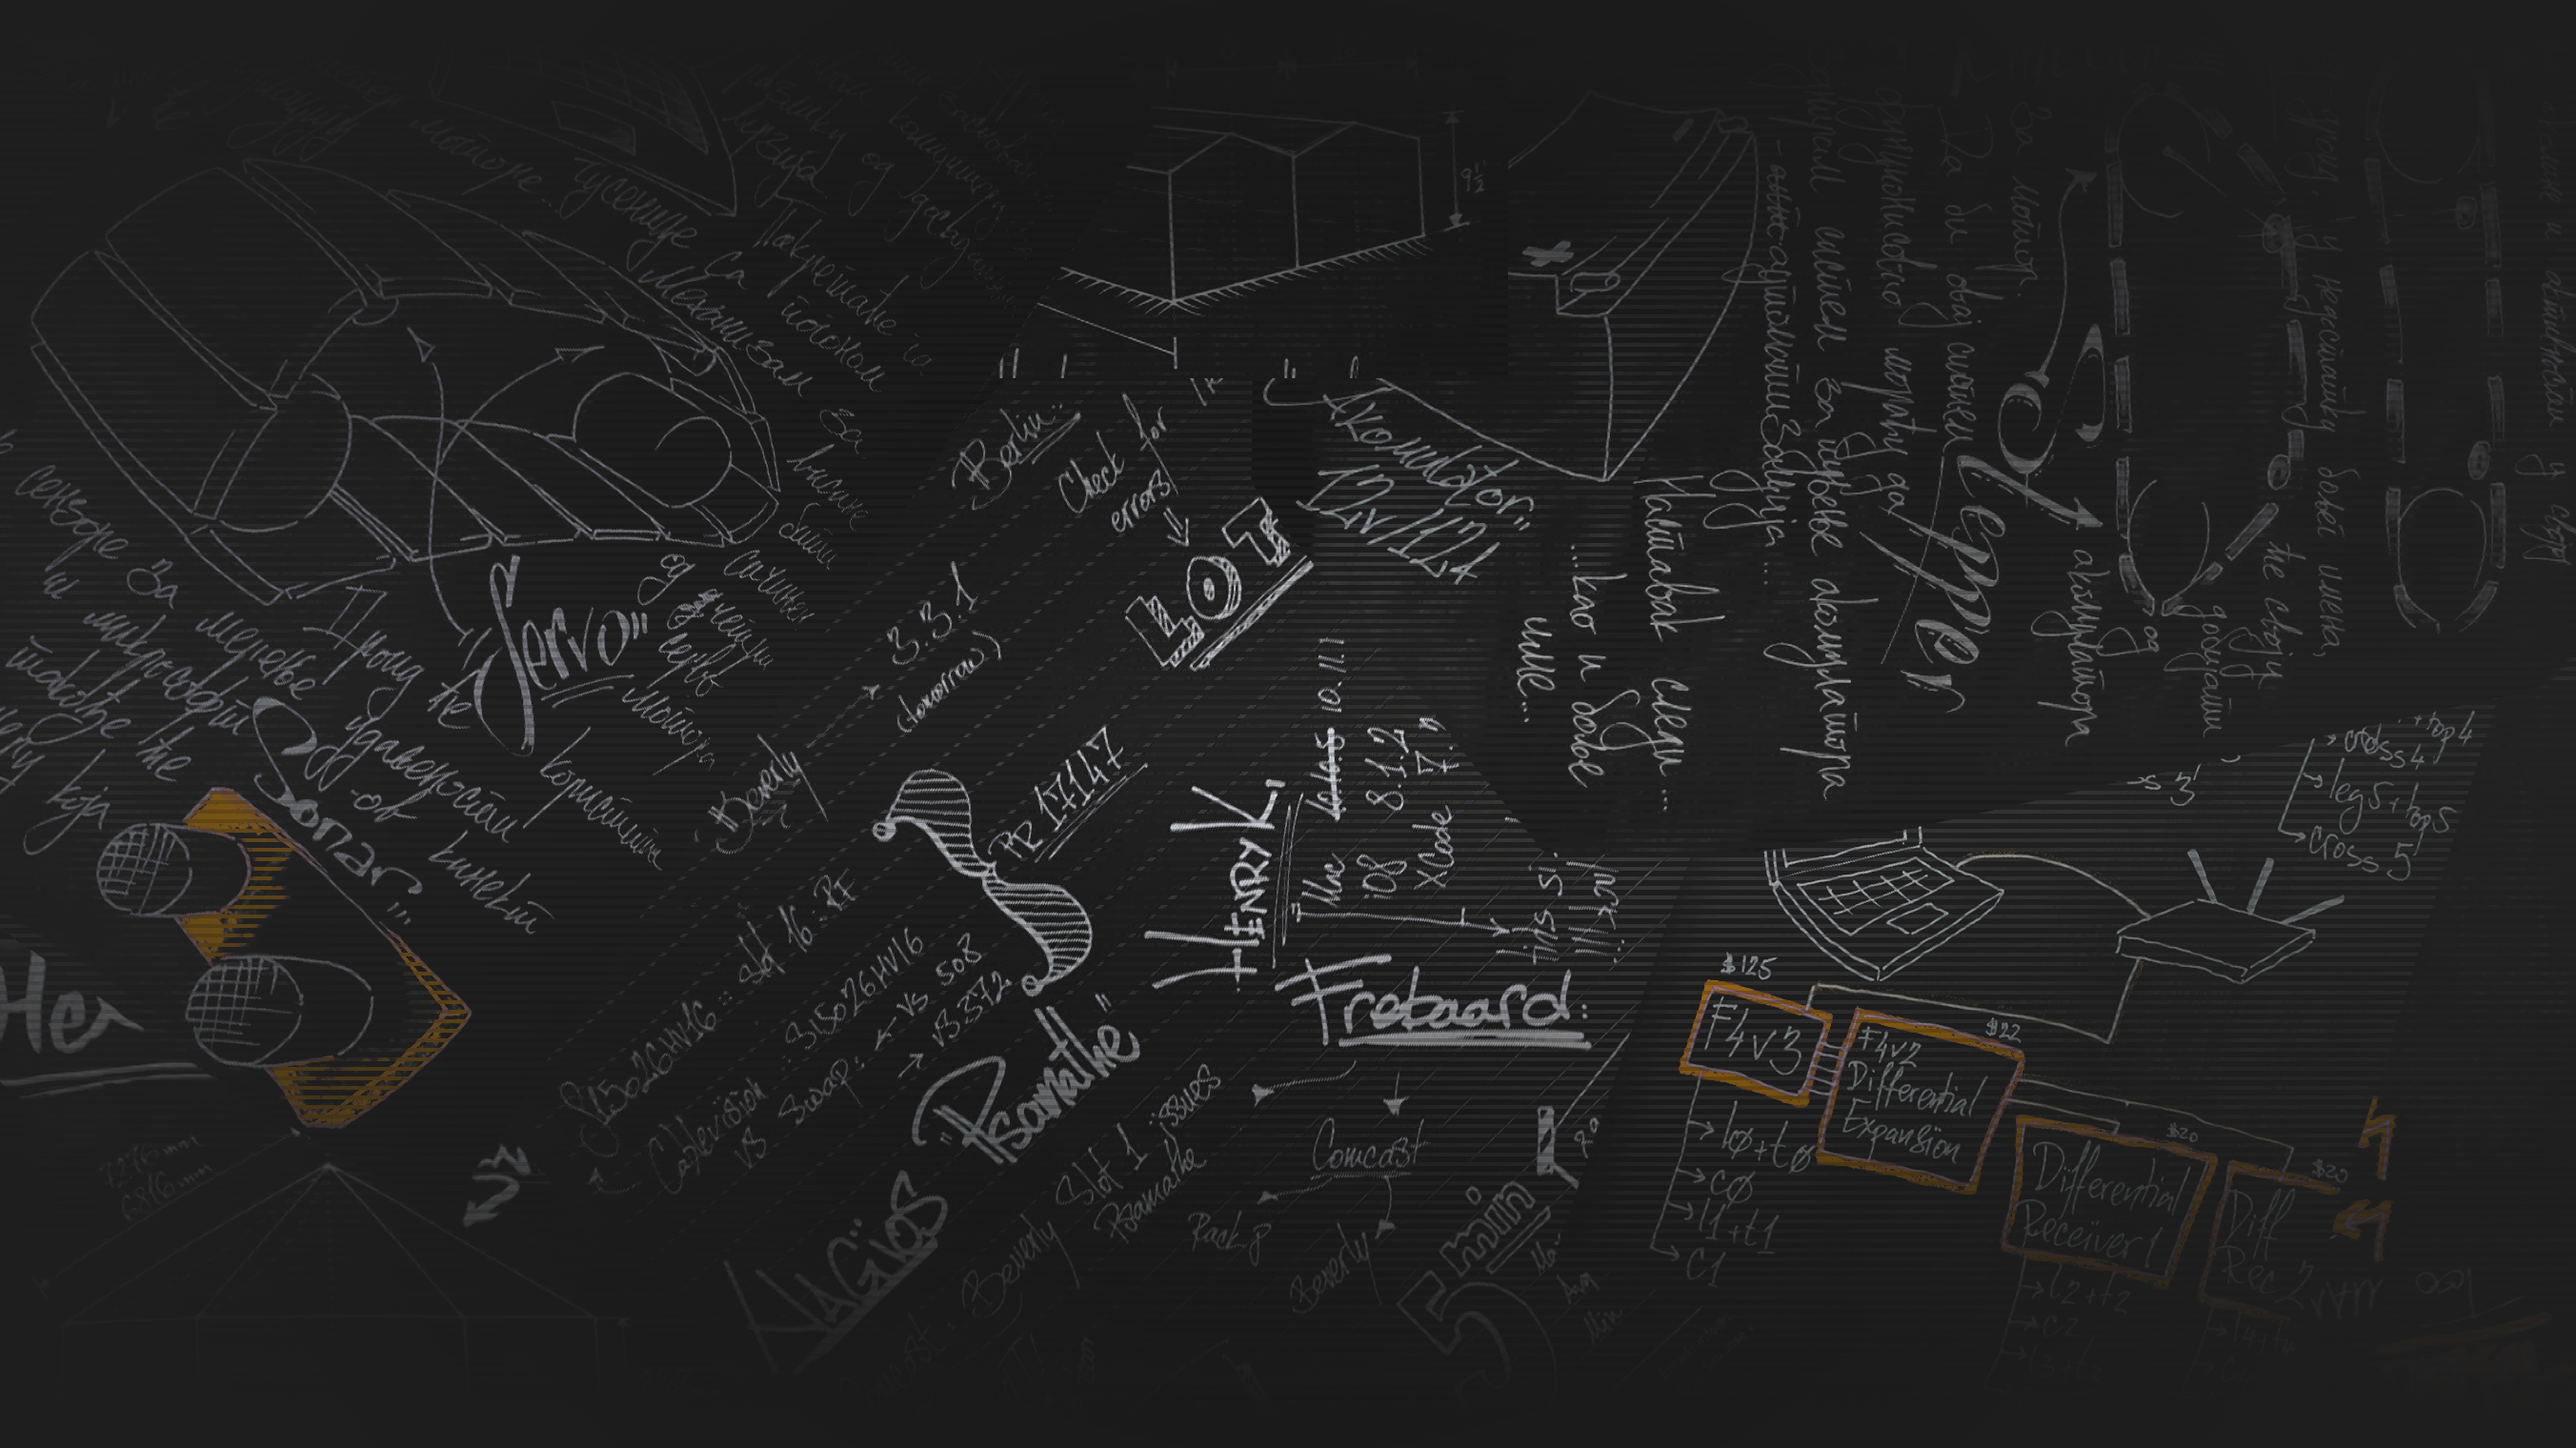
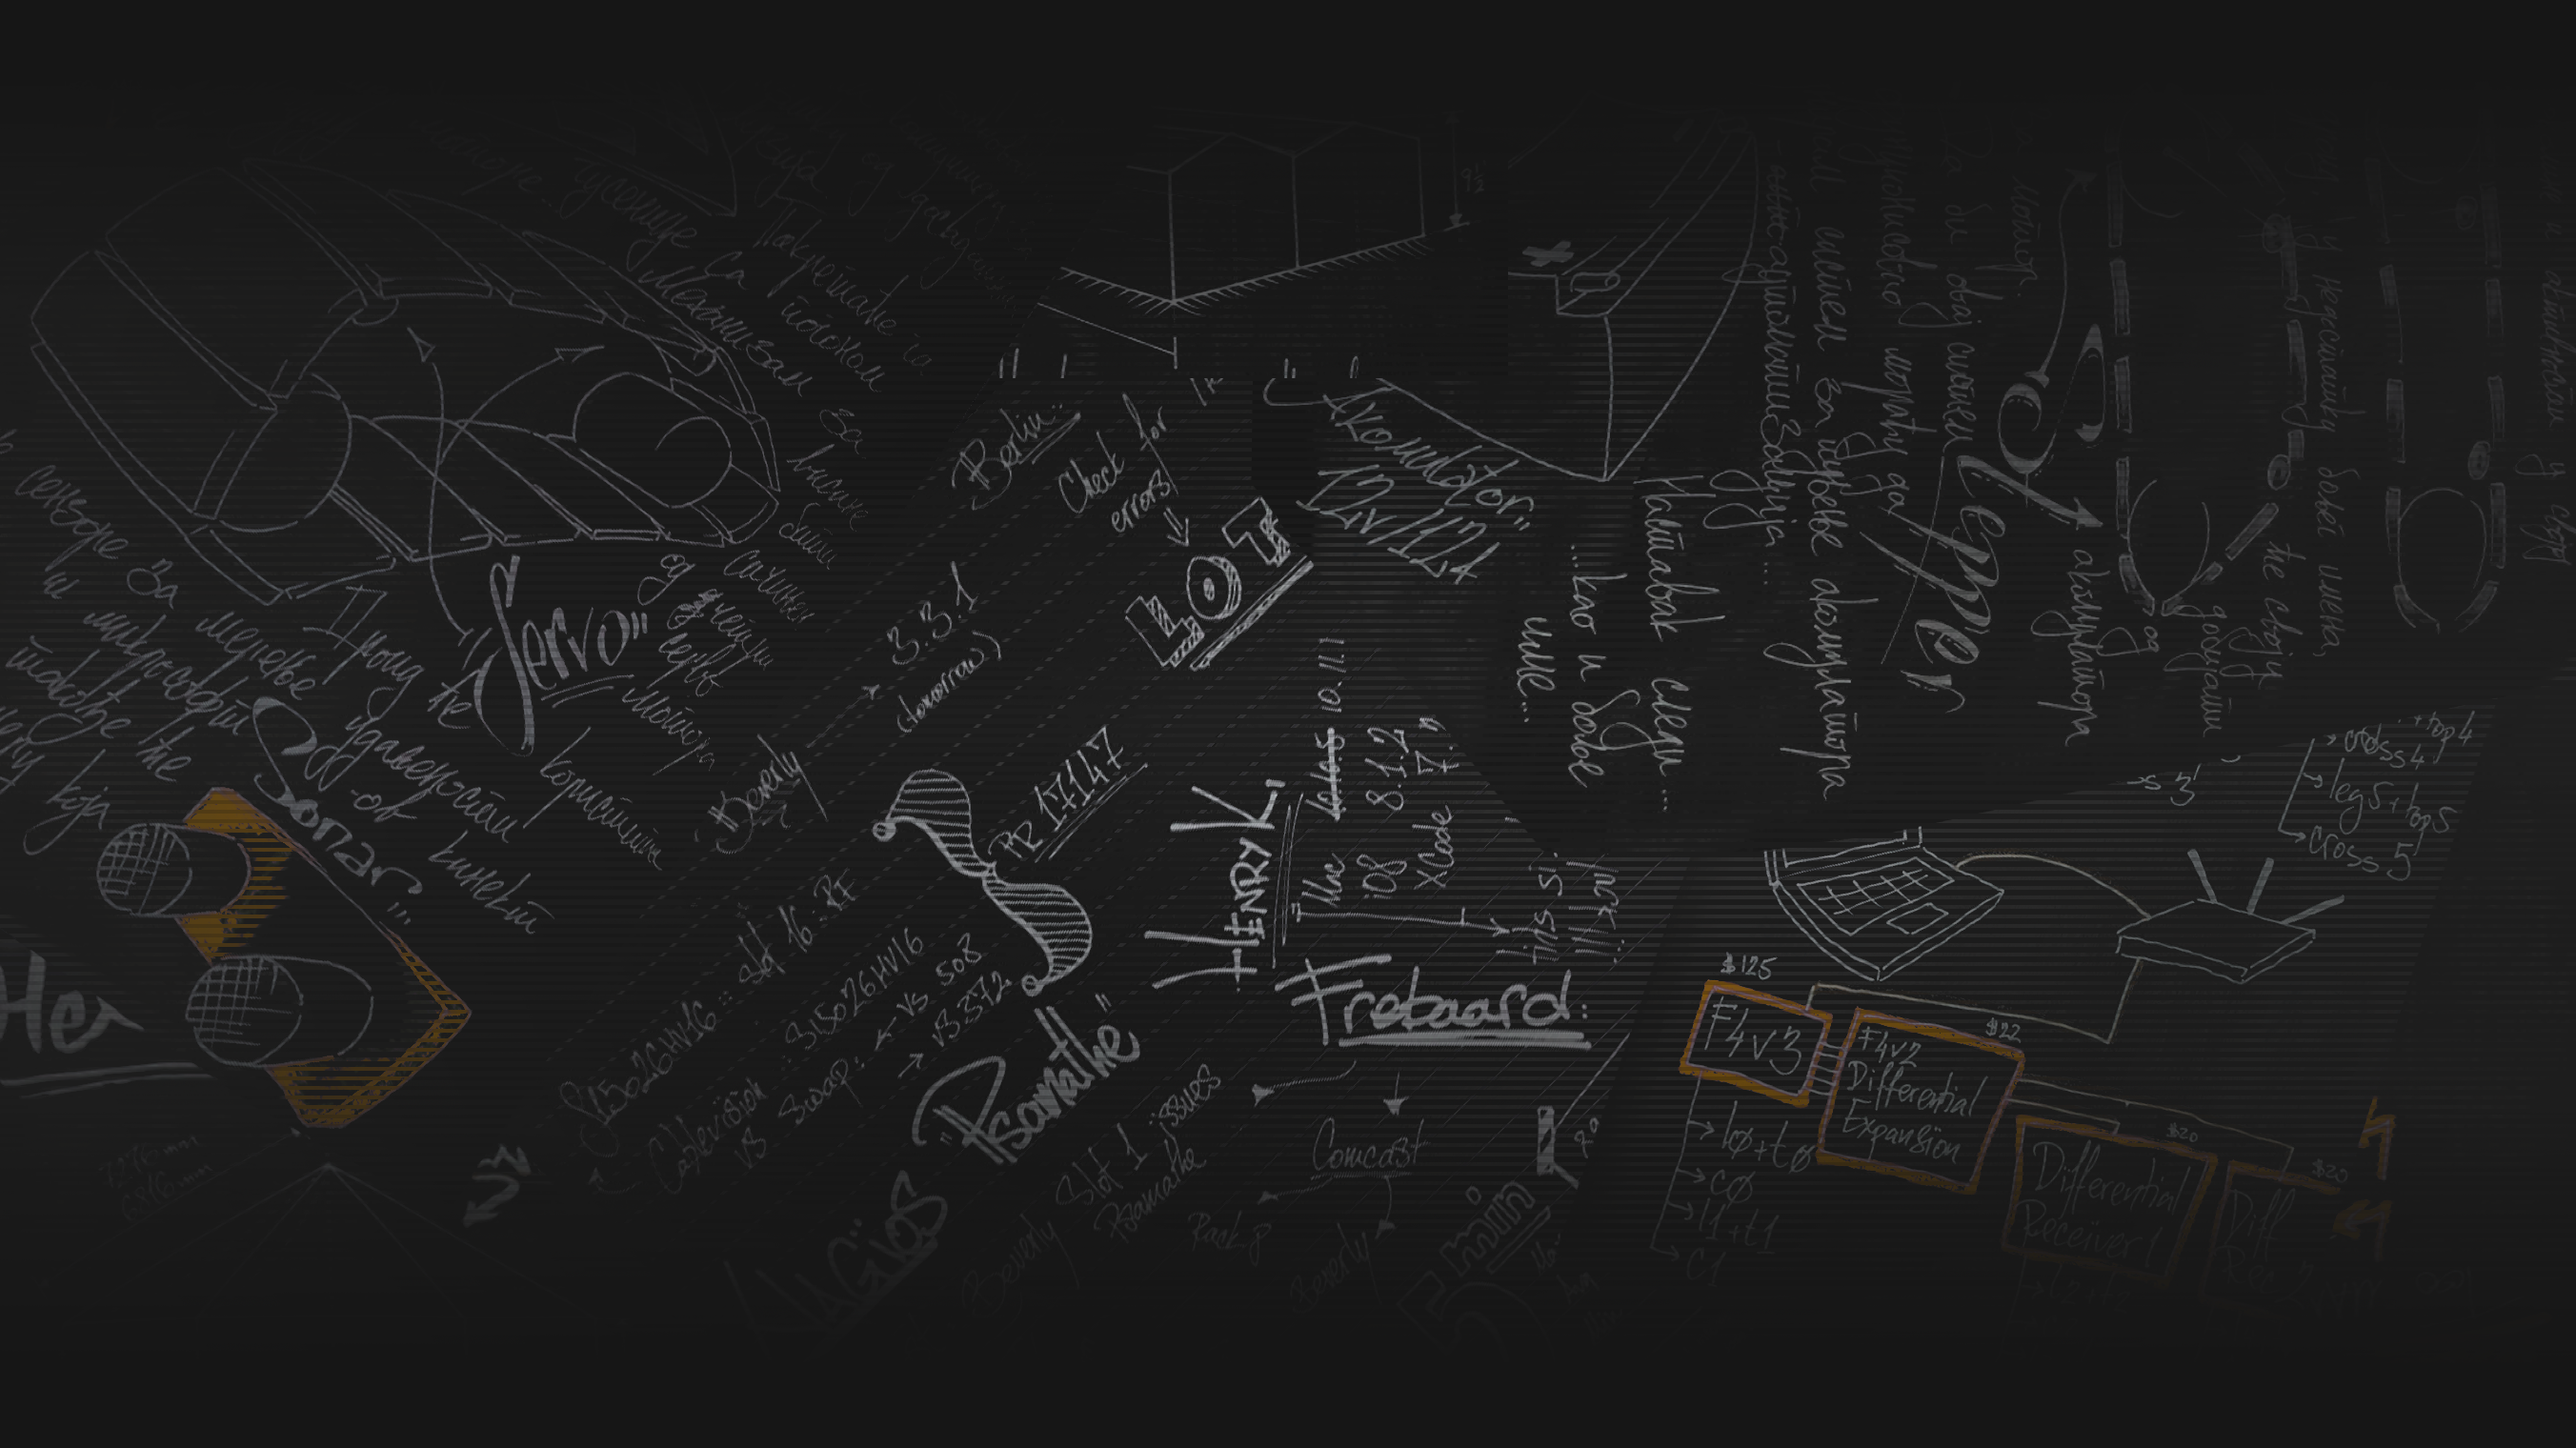
Add Whit3Board
Reworked some of the background assets
Added fourth project
Changed scramble frequency

diff --git a/src/js/scramble.js b/src/js/scramble.js
@@ -70,14 +70,14 @@ setTimeout(
     )
     scrambleTitle(
       new TextScramble(document.querySelector('[data-scramble-intro]')), 
-      ['Bad Idea Engineering'], 5
+      ['Bad Idea Engineering'], 3
     )
     scrambleTitle(
       new TextScramble(document.querySelector('[data-scramble-contact]')), 
-      ['Contact'], 3
+      ['Contact','e-mail','Get in touch'], 2
     )    
     document.querySelectorAll('[data-scramble-project]').forEach(project => {
-      scrambleTitle(new TextScramble(project), [project.innerText], 4)
+      scrambleTitle(new TextScramble(project), [project.innerText], 1)
     })
   },
   5000
